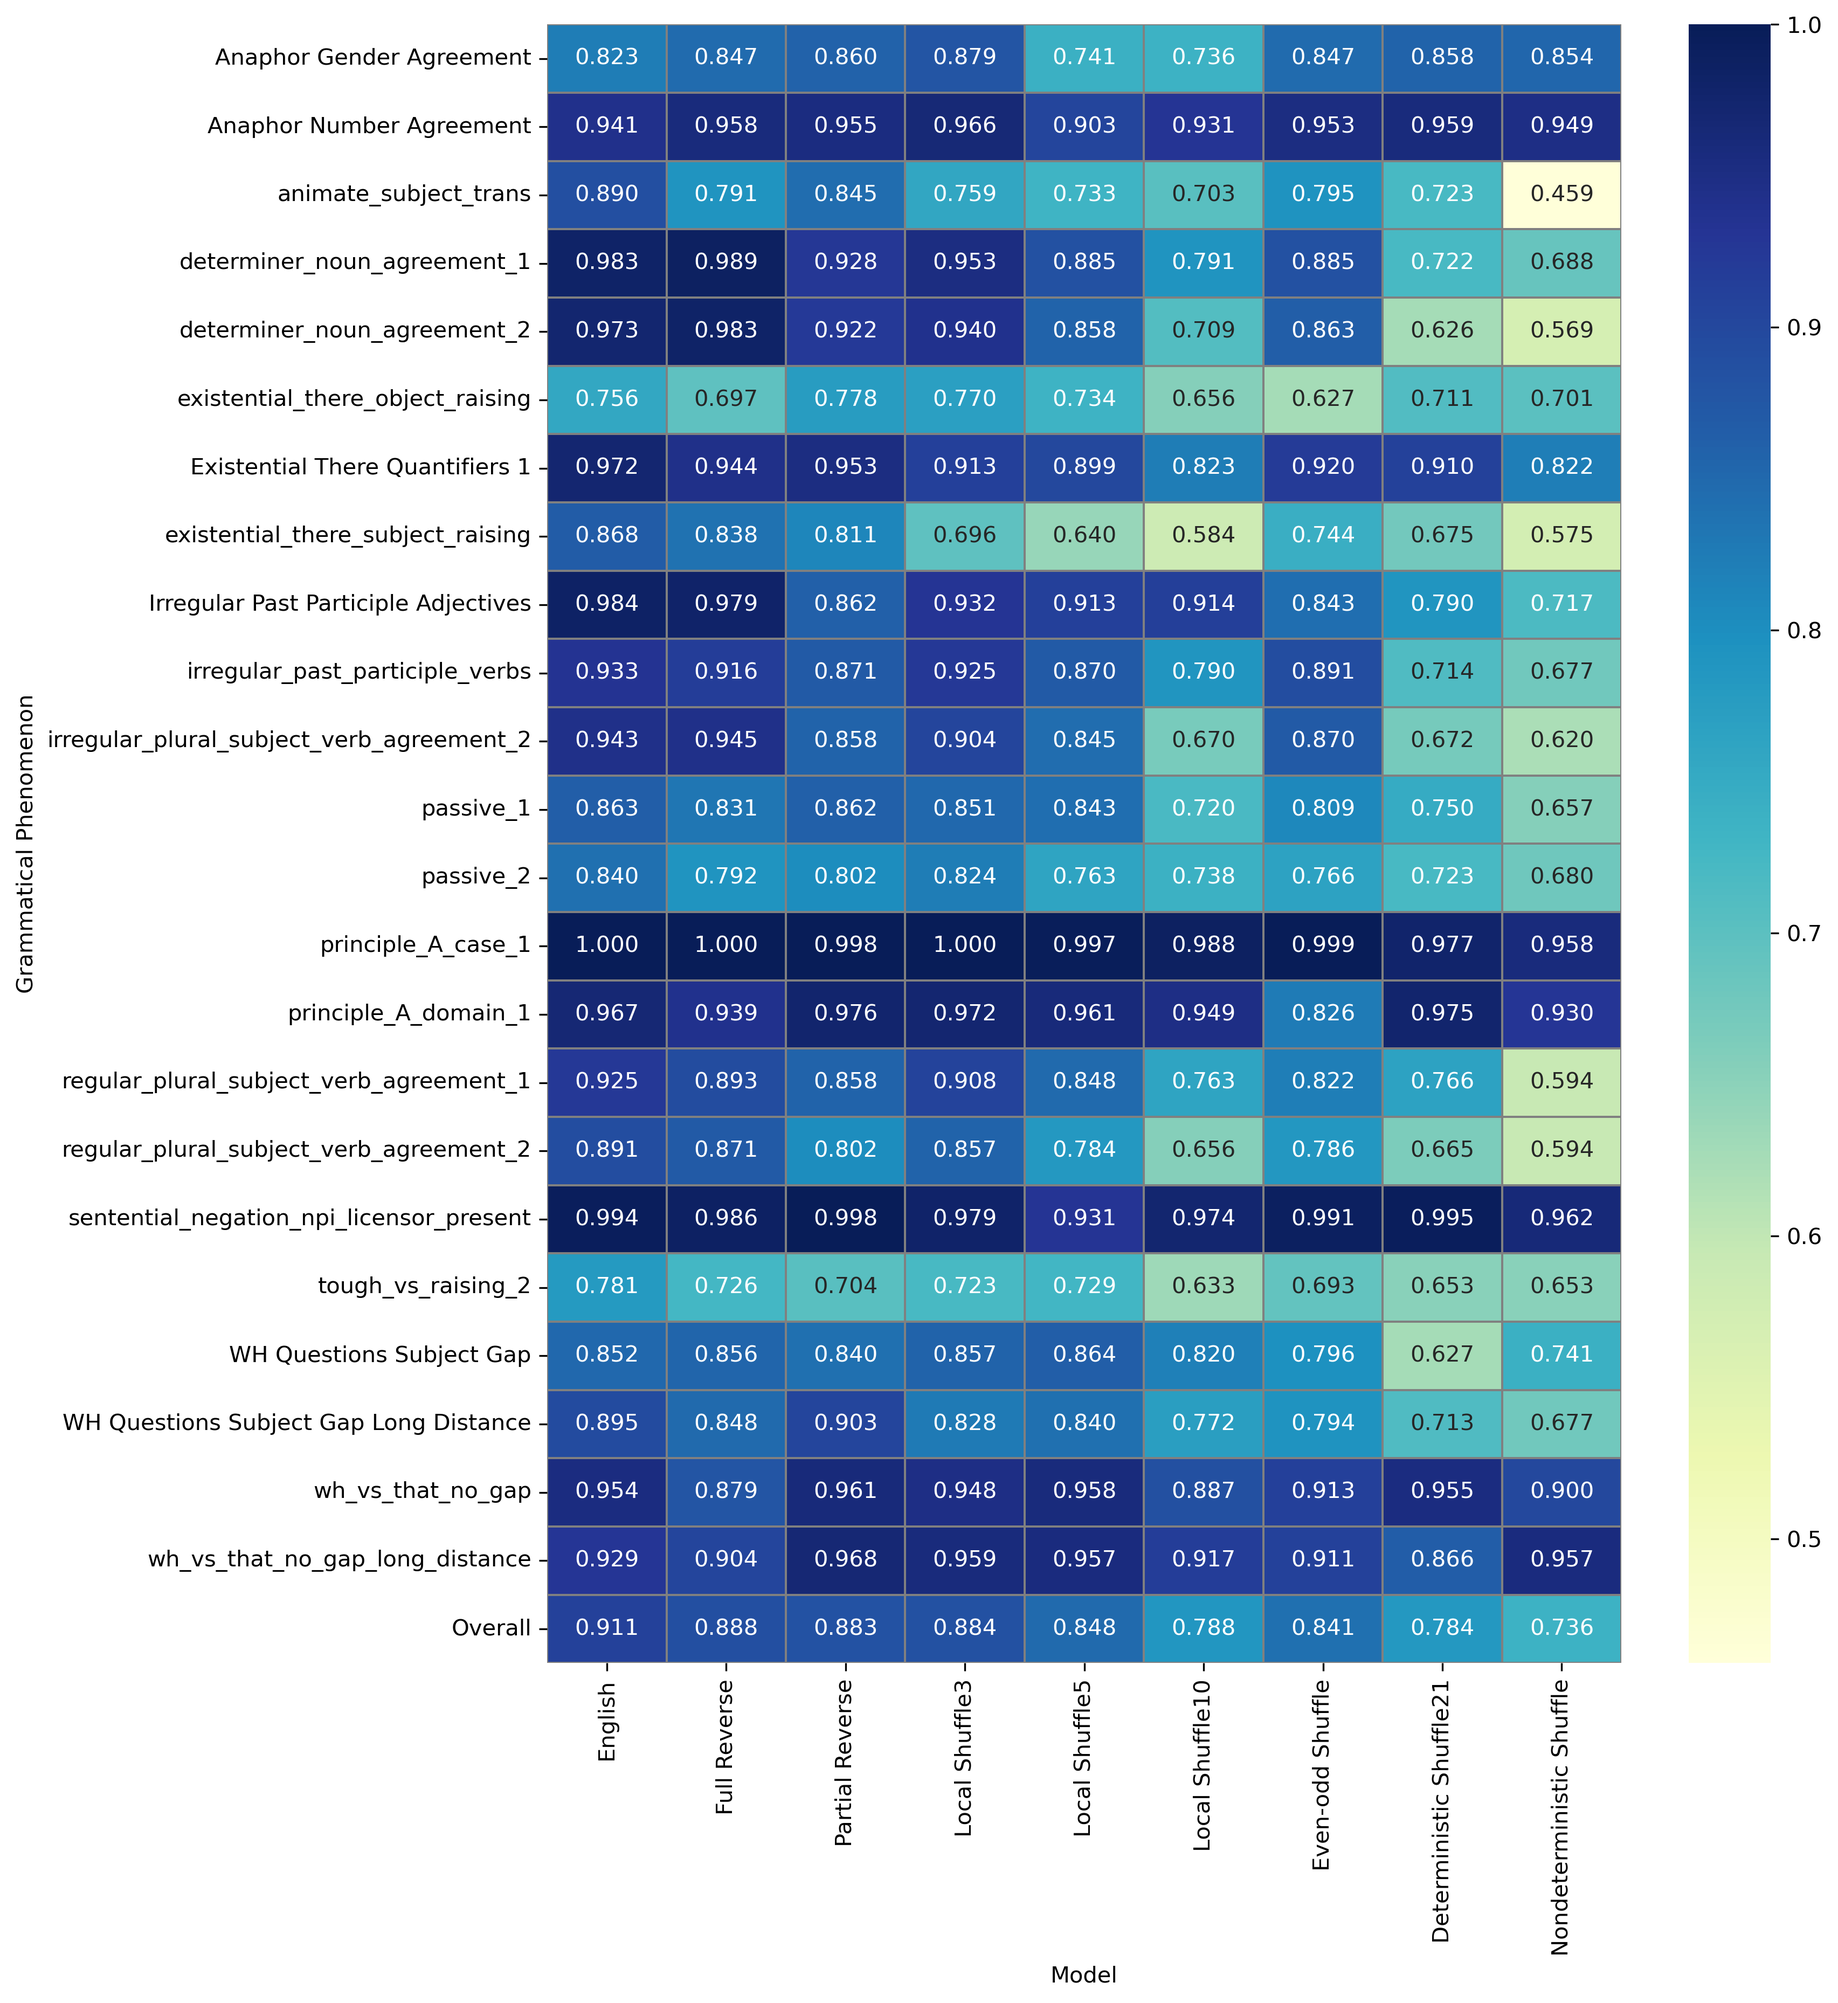
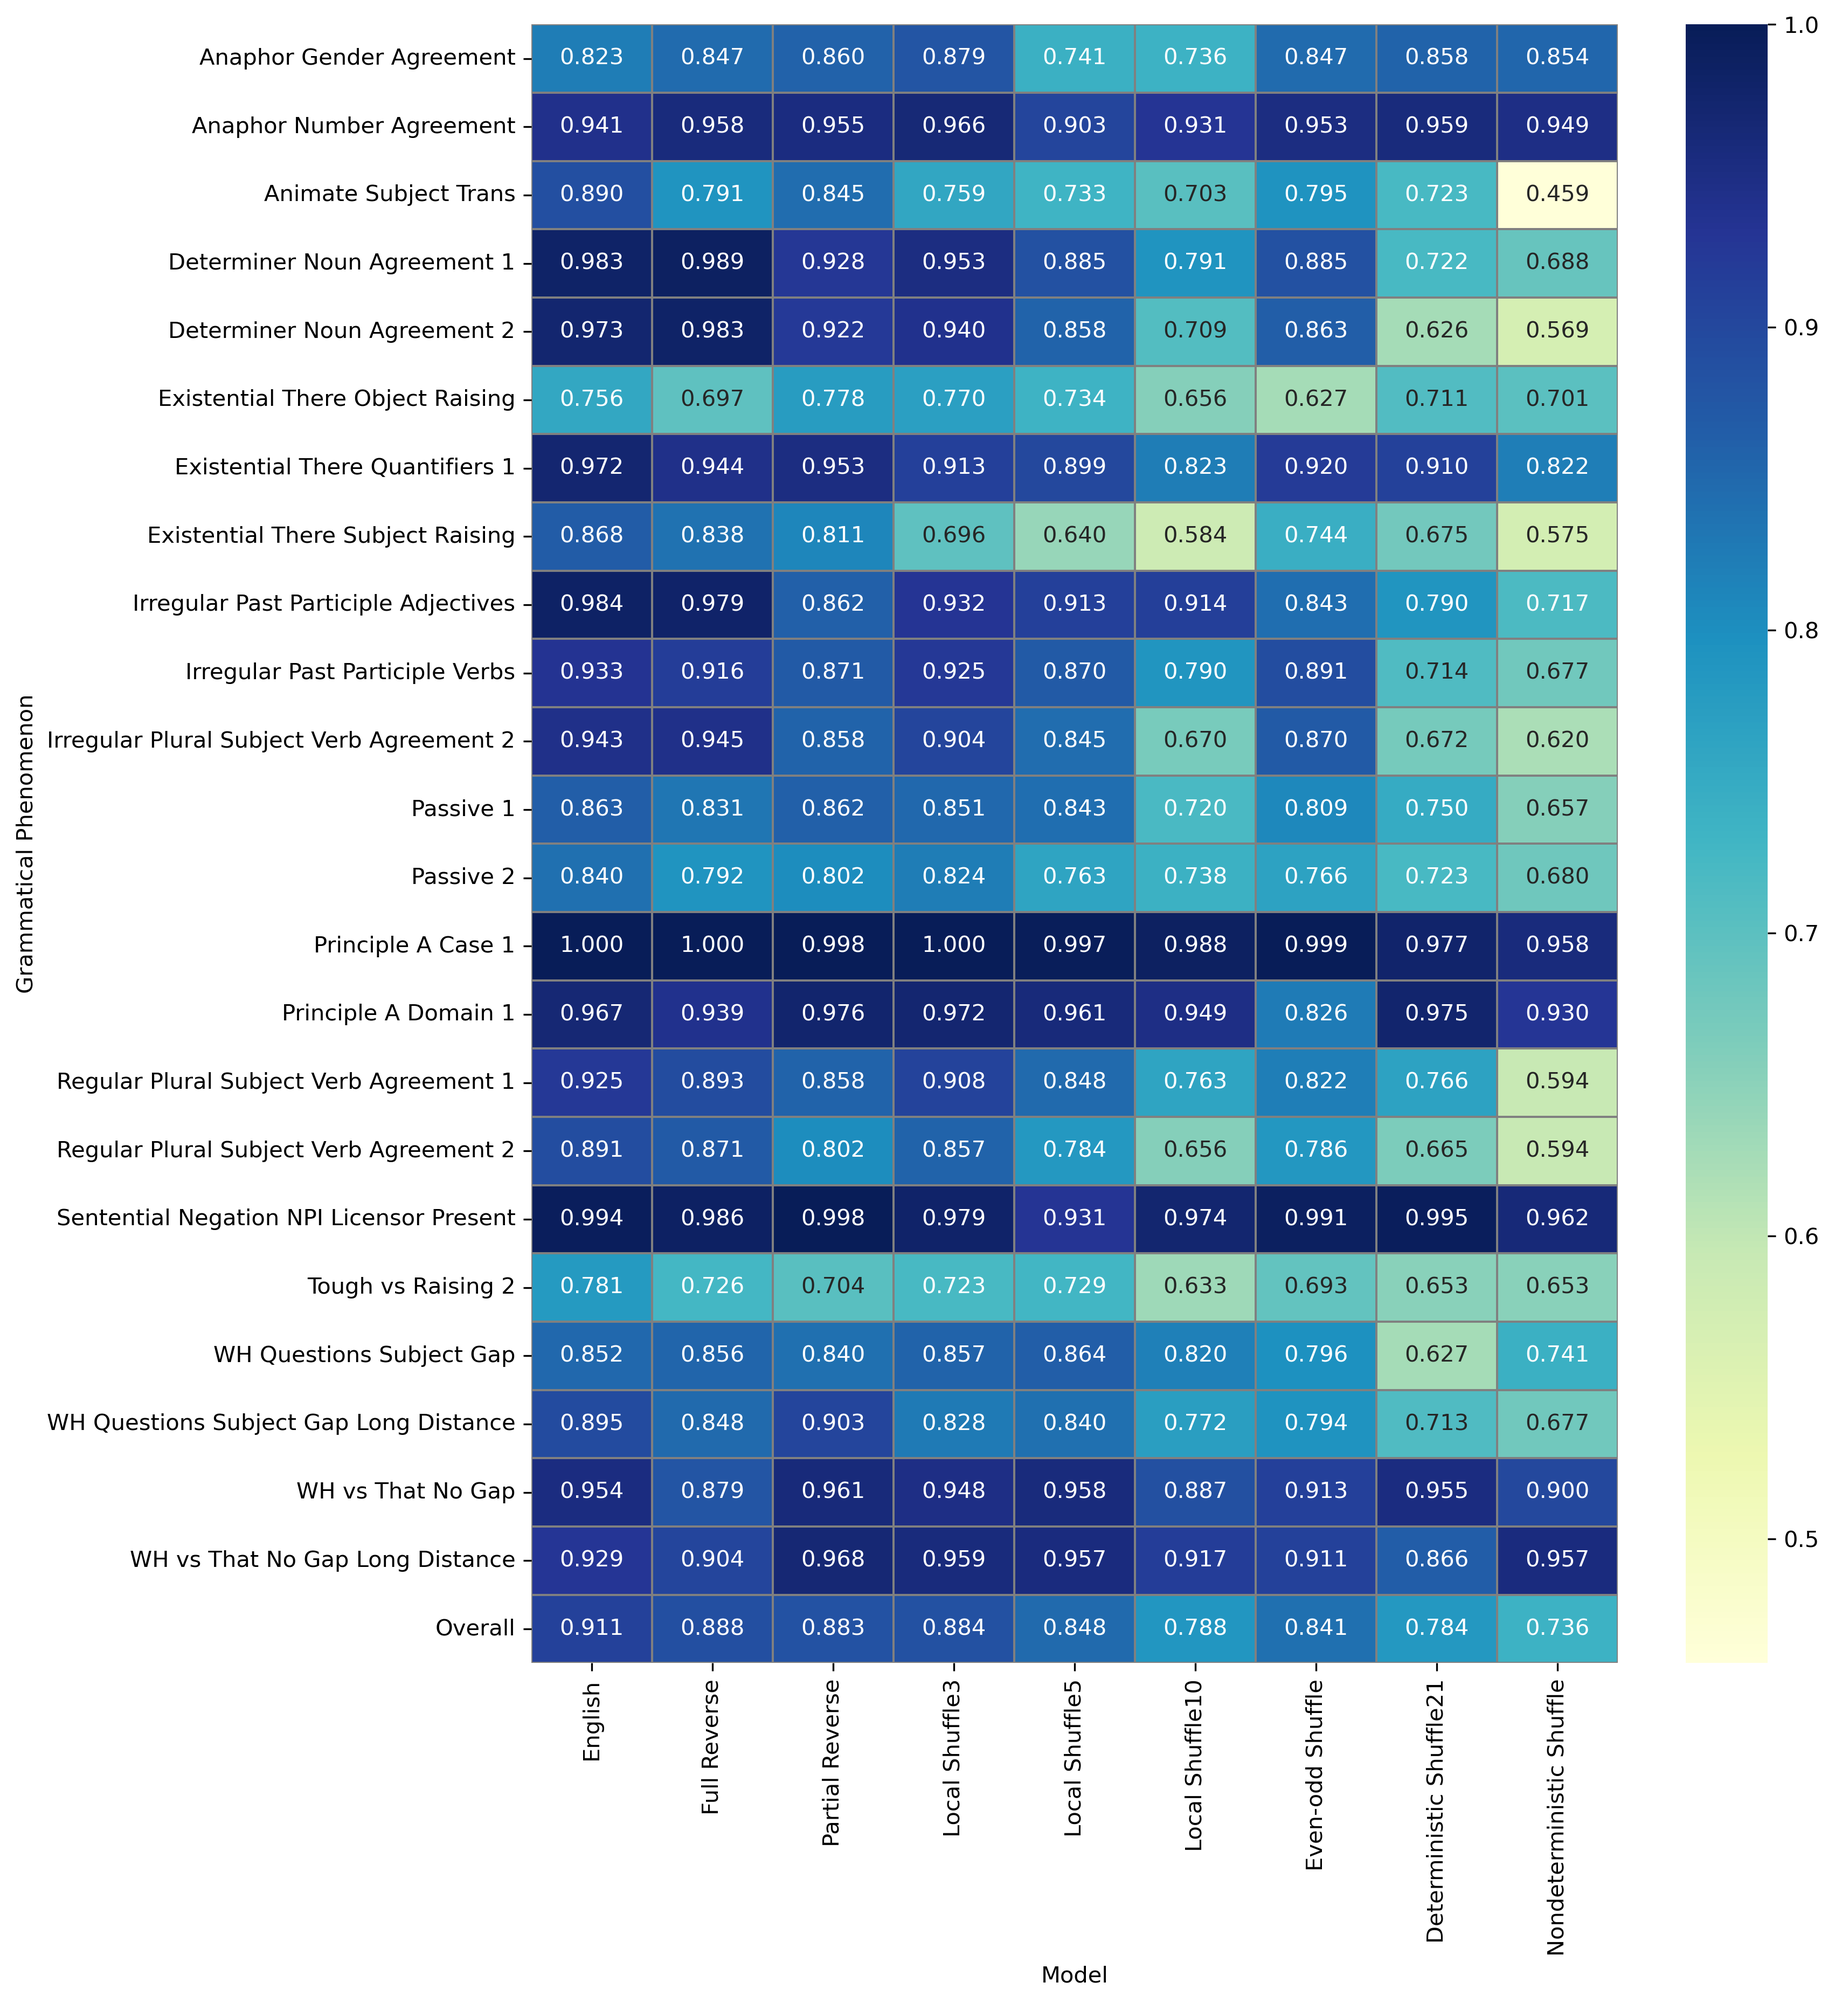
Adjust determiner_noun_agreement_with_adjective_1 dataset name

diff --git a/analysis/performance_statistics.py b/analysis/performance_statistics.py
@@ -93,17 +93,71 @@ PHENOMENA_TO_DISPLAY_NAME = {
     "anaphor_gender_agreement": "Anaphor Gender Agreement",
     "anaphor_number_agreement": "Anaphor Number Agreement",
     "animate_subject_passive": "Animate Subject Passive",
+    "animate_subject_trans": "Animate Subject Trans",
+    "causative": "Causative",
+    "complex_NP_island": "Complex NP Island",
+    "coordinate_structure_constraint_complex_left_branch": "Coordinate Structure Constraint Complex Left Branch",
+    "coordinate_structure_constraint_object_extraction": "Coordinate Structure Constraint Object Extraction",
+    "coordinate_structure_constraint_subject_extraction": "Coordinate Structure Constraint Subject Extraction",
+    "determiner_noun_agreement_1": "Determiner Noun Agreement 1",
+    "determiner_noun_agreement_2": "Determiner Noun Agreement 2",
+    "determiner_noun_agreement_irregular_1": "Determiner Noun Agreement Irregular 1",
+    "determiner_noun_agreement_irregular_2": "Determiner Noun Agreement Irregular 2",
+    "determiner_noun_agreement_with_adj_2": "Determiner Noun Agreement With Adj 2",
+    "determiner_noun_agreement_with_adj_irregular_1": "Determiner Noun Agreement With Adj Irregular 1",
+    "determiner_noun_agreement_with_adj_irregular_2": "Determiner Noun Agreement With Adj Irregular 2",
+    "determiner_noun_agreement_with_adjective_1": "Determiner Noun Agreement With Adjective 1",
+    "distractor_agreement_relational_noun": "Distractor Agreement Relational Noun",
     "distractor_agreement_relative_clause": "Distractor Agreement Relative Clause",
+    "drop_argument": "Drop Argument",
     "ellipsis_n_bar_1": "Ellipsis N-bar 1",
+    "ellipsis_n_bar_2": "Ellipsis N-bar 2",
+    "existential_there_object_raising": "Existential There Object Raising",
+    "existential_there_quantifiers_1": "Existential There Quantifiers 1",
+    "existential_there_quantifiers_2": "Existential There Quantifiers 2",
+    "existential_there_subject_raising": "Existential There Subject Raising",
+    "expletive_it_object_raising": "Expletive It Object Raising",
+    "inchoative": "Inchoative",
+    "intransitive": "Intransitive",
     "irregular_past_participle_adjectives": "Irregular Past Participle Adjectives",
+    "irregular_past_participle_verbs": "Irregular Past Participle Verbs",
+    "irregular_plural_subject_verb_agreement_1": "Irregular Plural Subject Verb Agreement 1",
+    "irregular_plural_subject_verb_agreement_2": "Irregular Plural Subject Verb Agreement 2",
+    "left_branch_island_echo_question": "Left Branch Island Echo Question",
+    "left_branch_island_simple_question": "Left Branch Island Simple Question",
+    "matrix_question_npi_licensor_present": "Matrix Question NPI Licensor Present",
+    "npi_present_1": "NPI Present 1",
+    "npi_present_2": "NPI Present 2",
+    "only_npi_licensor_present": "Only NPI Licensor Present",
+    "only_npi_scope": "Only NPI Scope",
+    "passive_1": "Passive 1",
+    "passive_2": "Passive 2",
     "principle_A_c_command": "Principle A C-command",
+    "principle_A_case_1": "Principle A Case 1",
+    "principle_A_case_2": "Principle A Case 2",
+    "principle_A_domain_1": "Principle A Domain 1",
+    "principle_A_domain_2": "Principle A Domain 2",
+    "principle_A_domain_3": "Principle A Domain 3",
+    "principle_A_reconstruction": "Principle A Reconstruction",
+    "regular_plural_subject_verb_agreement_1": "Regular Plural Subject Verb Agreement 1",
+    "regular_plural_subject_verb_agreement_2": "Regular Plural Subject Verb Agreement 2",
+    "sentential_negation_npi_licensor_present": "Sentential Negation NPI Licensor Present",
+    "sentential_negation_npi_scope": "Sentential Negation NPI Scope",
+    "sentential_subject_island": "Sentential Subject Island",
+    "superlative_quantifiers_1": "Superlative Quantifiers 1",
+    "superlative_quantifiers_2": "Superlative Quantifiers 2",
+    "tough_vs_raising_1": "Tough vs Raising 1",
+    "tough_vs_raising_2": "Tough vs Raising 2",
+    "transitive": "Transitive",
+    "wh_island": "WH Island",
     "wh_questions_object_gap": "WH Questions Object Gap",
     "wh_questions_object_gap_long_distance": "WH Questions Object Gap Long Distance",
     "wh_questions_subject_gap": "WH Questions Subject Gap",
     "wh_questions_subject_gap_long_distance": "WH Questions Subject Gap Long Distance",
-    "left_branch_island_simple_question": "Left Branch Island Simple Question",
-    "determiner_noun_agreement_with_adj_2": "Determiner Noun Agreement With Adj 2",
-    "existential_there_quantifiers_1": "Existential There Quantifiers 1"
+    "wh_vs_that_no_gap": "WH vs That No Gap",
+    "wh_vs_that_no_gap_long_distance": "WH vs That No Gap Long Distance",
+    "wh_vs_that_with_gap": "WH vs That With Gap",
+    "wh_vs_that_with_gap_long_distance": "WH vs That With Gap Long Distance",
 }
 
 PHENOMENA_LIST_MAP = {
@@ -139,7 +193,7 @@ PHENOMENA_LIST_MAP = {
     "determiner_noun_agreement_2": "determiner_noun_agreement",
     "determiner_noun_agreement_irregular_1": "determiner_noun_agreement",
     "determiner_noun_agreement_irregular_2": "determiner_noun_agreement",
-    "determiner_noun_agreement_with_adj_1": "determiner_noun_agreement",
+    "determiner_noun_agreement_with_adjective_1": "determiner_noun_agreement",
     "determiner_noun_agreement_with_adj_2": "determiner_noun_agreement",
     "determiner_noun_agreement_with_adj_irregular_1": "determiner_noun_agreement",
     "determiner_noun_agreement_with_adj_irregular_2": "determiner_noun_agreement",
